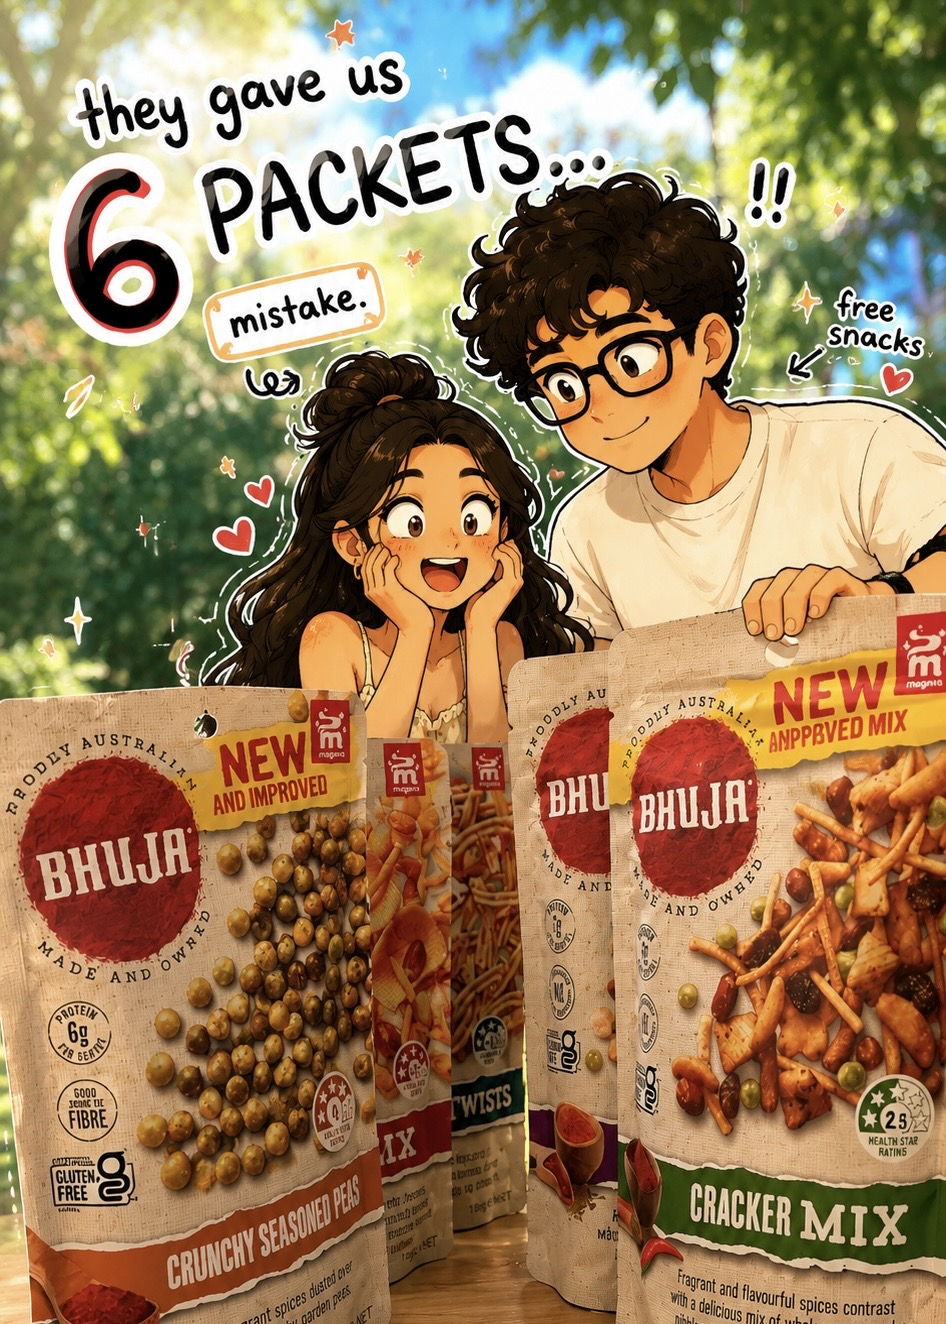
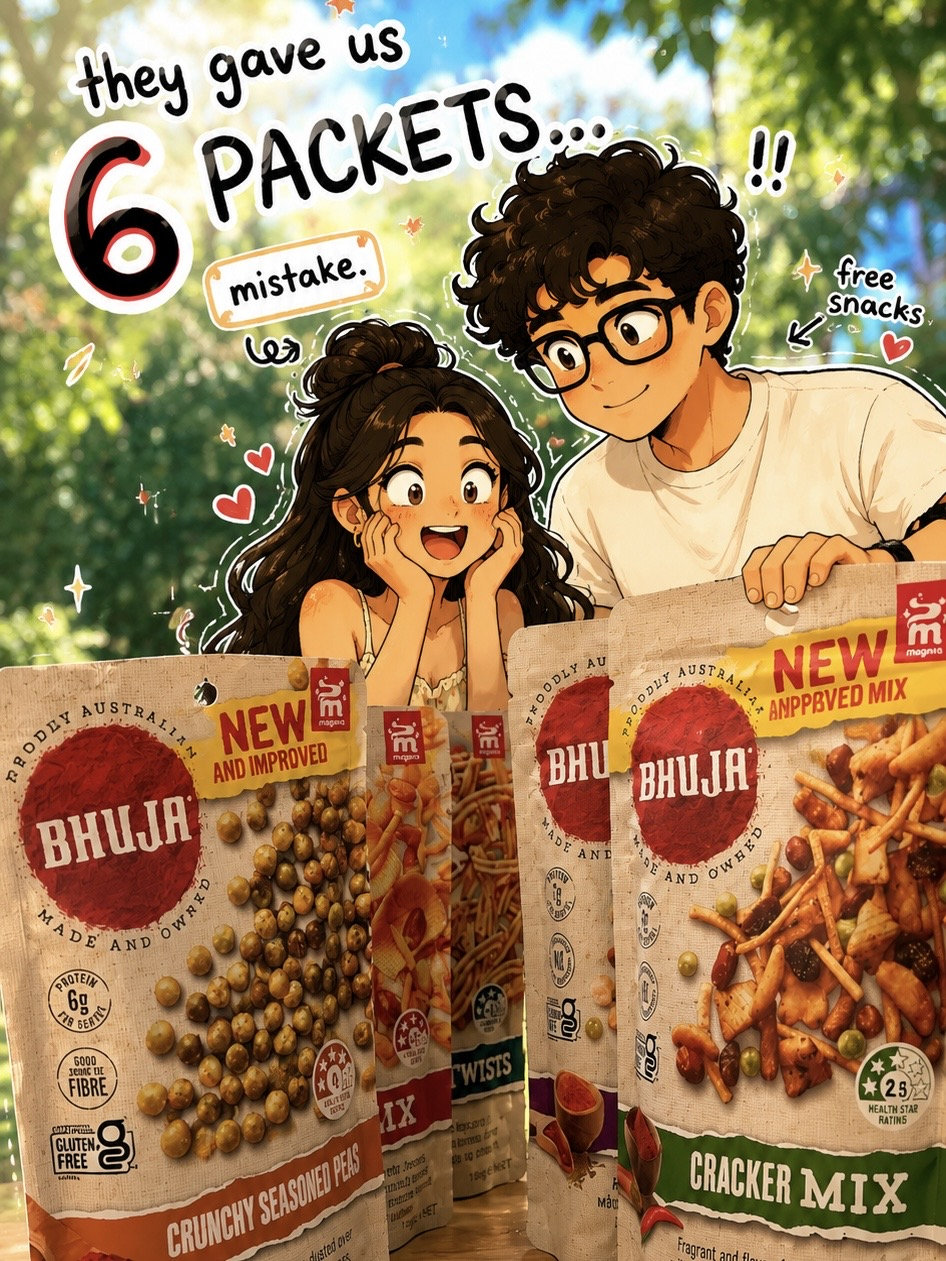
Randomize tacoandchai gallery, make Chatkazz first, set Starbucks card cover, and update Bhuja Snacks images

diff --git a/public/tacoandchai/index.html b/public/tacoandchai/index.html
@@ -641,22 +641,22 @@
 
     <section class="masonry-wrap reveal" aria-label="taco and chai image gallery">
       <div class="masonry">
-        <button class="shot" type="button" data-gallery="set1">
-          <img src="/images/9/1.PNG" alt="Starbucks Central Sydney collection cover">
-          <small>tap to open</small>
-          <span>Starbucks, Central Sydney</span>
-        </button>
         <button class="shot portrait-3x4" type="button" data-gallery="set2">
           <img src="/images/2/1.jpg" alt="Chatkazz Bella Vista collection cover">
           <small>tap to open</small>
           <span>Chatkazz, Bella Vista</span>
         </button>
-        <button class="shot portrait-5x7" type="button" data-gallery="set3">
-          <img src="/images/3/1.jpg" alt="Bhuja Snacks Tasting Collab collection cover">
+        <button class="shot portrait-5x7" type="button" data-gallery="set4">
+          <img src="/images/9/1.PNG" alt="Starbucks Central Sydney collection cover">
+          <small>tap to open</small>
+          <span>Starbucks, Central Sydney</span>
+        </button>
+        <button class="shot portrait-3x4" type="button" data-gallery="set3">
+          <img src="/images/3/2.jpg" alt="Bhuja Snacks Tasting Collab collection cover">
           <small>tap to open</small>
           <span>Bhuja Snacks Tasting Collab</span>
         </button>
-        <button class="shot" type="button" data-gallery="set4">
+        <button class="shot" type="button" data-gallery="set1">
           <img src="/images/1/1.PNG" alt="taco and chai food-life collection cover">
           <small>tap to open</small>
           <span>Mr HotPoter Australia, Chatswood</span>
@@ -666,7 +666,7 @@
           <small>tap to open</small>
           <span>Moconna</span>
         </button>
-        <button class="shot" type="button" data-gallery="set6">
+        <button class="shot portrait-5x7" type="button" data-gallery="set6">
           <img src="/images/6/1.jpg" alt="taco and chai lifestyle collection cover">
           <small>tap to open</small>
           <span>Laziza Falooda</span>
@@ -676,7 +676,7 @@
           <small>tap to open</small>
           <span>10000 Cafe, Eastwood</span>
         </button>
-        <button class="shot" type="button" data-gallery="set8">
+        <button class="shot portrait-3x4" type="button" data-gallery="set8">
           <img src="/images/8/1.jpg" alt="Bakery 101 Eastwood collection cover">
           <small>tap to open</small>
           <span>Bakery 101, Eastwood</span>
